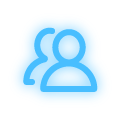
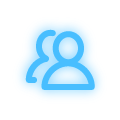
shutown:fixed some bug of switch_user
1.update switch_user icon
2.fixed the bug that the switch_user icon must be hiden when user.length < 2
3.fixed that the icons arenot in the center of screen when switch_user icon shows

Changed region(s): [[0.175, 0.225, 0.825, 0.775], [0.525, 0.55, 0.575, 0.575]]

diff --git a/dialogUI/resources/shutdown/css/powerchoose.css b/dialogUI/resources/shutdown/css/powerchoose.css
@@ -27,7 +27,7 @@
 body{
     cursor:default;
     overflow:hidden;
-    
+
     background-origin:padding-box;
     background-clip:border-box;
     background-position:center;
@@ -35,8 +35,11 @@ body{
     background-repeat:no-repeat;
     background-attachment:fixed;
     background-color:rgba(0,0,0,0.5);
-    
+
     font-size:62.5%;
+    display:-webkit-box;
+    -webkit-box-pack:center;
+    -webkit-box-align:center;
 }
 
 .bg_el{
@@ -48,11 +51,11 @@ body{
 }
 
 .PowerChoose{
-    position:absolute;
     display:-webkit-box;
     -webkit-box-pack:center;
     -webkit-box-align:center;
     -webkit-box-orient:vertical;
+    margin-bottom:10em;
 }
 
 .message_div{

diff --git a/dialogUI/app/shutdown/shutdown.c b/dialogUI/app/shutdown/shutdown.c
@@ -153,9 +153,7 @@ void spawn_command_sync (const char* command,gboolean sync)
 
 JS_EXPORT_API
 void shutdown_switch_to_greeter(){
-    char* cmd = g_strdup_printf("/usr/bin/dde-switchtogreeter");
-    spawn_command_sync(cmd,FALSE);
-    g_free(cmd);
+    spawn_command_sync("/usr/bin/dde-switchtogreeter",FALSE);
 }
 
 int main (int argc, char **argv)
